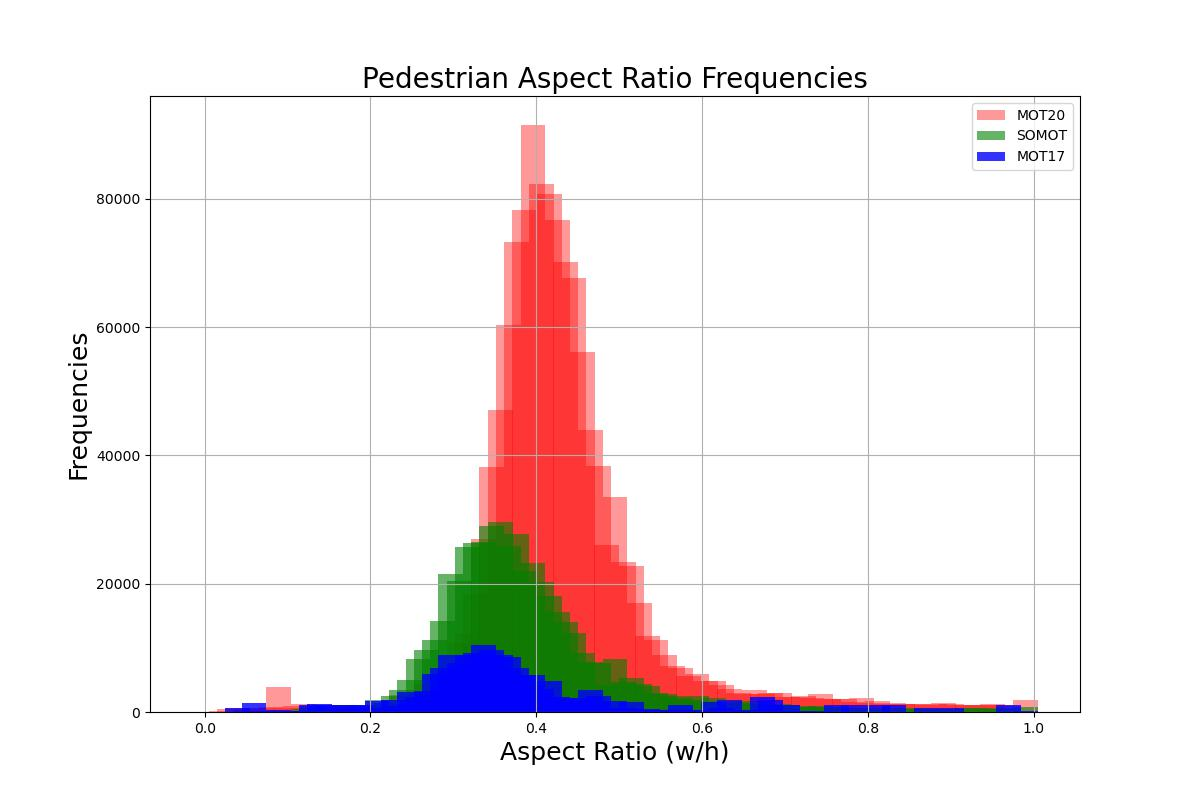
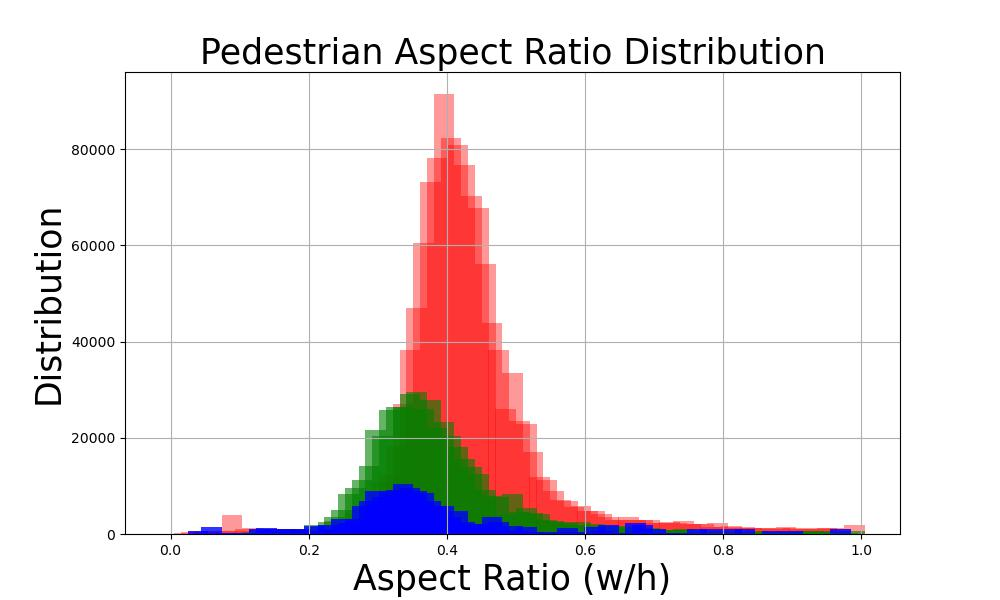
yolov5 detection statistics calculated

diff --git a/datasetStatistics.py b/datasetStatistics.py
@@ -79,51 +79,50 @@ for ro in root:
         else:
             continue
 
-fig = plt.subplots(figsize=(12, 8))
+
+
+fig = plt.subplots(figsize=(10, 6))
 plt.bar(histAR_x[:15000], histAR[2, :15000], color='r', width=0.03, label='MOT20', alpha=0.4)
-plt.bar(histAR_x[:15000], histAR[0, :15000], color='g', width=0.03, label='SOMOT', alpha=0.6)
+plt.bar(histAR_x[:15000], histAR[0, :15000], color='g', width=0.03, label='SOMOT22', alpha=0.6)
 plt.bar(histAR_x[:15000], histAR[1, :15000], color='b', width=0.03, label='MOT17', alpha=0.8)
 
-plt.ylabel('Frequencies', size=18)
-plt.xlabel('Aspect Ratio (w/h)', size=18)
-plt.title('Pedestrian Aspect Ratio Frequencies', size=20)
-plt.legend()
+plt.ylabel('Distribution', size=25)
+plt.xlabel('Aspect Ratio (w/h)', size=25)
+plt.title('Pedestrian Aspect Ratio Distribution', size=25)
 plt.grid()
-plt.savefig('histOfAR_.jpg')
+plt.savefig('histOfAR.jpg')
 plt.show()
 plt.close()
 
 
-fig = plt.subplots(figsize=(12, 8))
+
+fig = plt.subplots(figsize=(10, 6))
 plt.bar(histH_x[:400], histHeight[2, :400], color='r', width=8, label='MOT20', alpha=0.4)
-plt.bar(histH_x[:400], histHeight[0, :400], color='g', width=8, label='SOMOT', alpha=0.6)
+plt.bar(histH_x[:400], histHeight[0, :400], color='g', width=8, label='SOMPT22', alpha=0.6)
 plt.bar(histH_x[:400], histHeight[1, :400], color='b', width=8, label='MOT17', alpha=0.8)
 
-
-
-plt.ylabel('Frequencies', size=18)
-plt.xlabel('Object Height (px)', size=18)
-plt.title('Pedestrian Size Frequencies', size=20)
-plt.legend()
+plt.ylabel('Distribution', size=25)
+plt.xlabel('Object Height (px)', size=25)
+plt.title('Pedestrian Size Distribution', size=25)
+plt.legend(fontsize=25)
 plt.grid()
-plt.savefig('histOfH_.jpg')
+plt.savefig('histOfH.jpg')
 plt.show()
 plt.close()
 
 
-fig = plt.subplots(figsize=(12, 8))
+
+
+fig = plt.subplots(figsize=(10, 6))
 plt.bar(histD_x[:250], histDensity[2, :250], color='r', width=1.3, label='MOT20', alpha=0.4)
-plt.bar(histD_x[:250], histDensity[0, :250], color='g', width=1.3, label='SOMOT', alpha=0.6)
+plt.bar(histD_x[:250], histDensity[0, :250], color='g', width=1.3, label='SOMOT22', alpha=0.6)
 plt.bar(histD_x[:250], histDensity[1, :250], color='b', width=1.3, label='MOT17', alpha=0.8)
 
-
-
-plt.ylabel('Frequencies', size=18)
-plt.xlabel('Object per Frame', size=18)
-plt.title('Pedestrian Densities', size=20)
-plt.legend()
+plt.ylabel('Distribution', size=25)
+plt.xlabel('Object per Frame', size=25)
+plt.title('Pedestrian Density Distribution', size=25)
 plt.grid()
-plt.savefig('histOfD_.jpg')
+plt.savefig('histOfD.jpg')
 plt.show()
 plt.close()
 

diff --git a/detectionStatistics.py b/detectionStatistics.py
@@ -1,0 +1,57 @@
+import cv2
+import time
+import os
+import sys
+from datetime import datetime
+import shutil
+import numpy as np
+from operator import itemgetter
+import matplotlib.pyplot as plt
+
+
+somot = '/home/fatih/phd/yolov5/runs/detect/dets'  # train test
+result = '/home/fatih/phd/yolov5/runs/detect/stats.txt'
+
+wr = open(result, 'a')
+
+vidHeight = 1080
+
+seqs = os.listdir(somot)
+for seq in seqs:
+    if seq == 'cam2 2021-02-23,04 00 40' or seq == 'cam2 2021-02-23,18 00 04':
+        vidHeight = 720
+    else:
+        vidHeight = 1080
+    txt_list = os.path.join(somot, seq)
+    txts = os.listdir(txt_list)
+    wr.write('Seq: ' + seq + ' ')
+    wr.write('fr: ' + str(len(txts)) + ' ')
+    nDet = 0
+    min_height = vidHeight
+    max_height = 0
+    for txt in txts:
+        with open(os.path.join(somot, seq, txt)) as fp:
+            Lines = fp.readlines()
+            nDet += len(Lines)
+            for ix, line in enumerate(Lines):
+                line = line.split(' ')
+                height = line[4]
+                height = float(height)
+                height *= vidHeight
+                if height < min_height:
+                    min_height = height
+                if height > max_height:
+                    max_height = height
+    wr.write('nDet: ' + str(nDet) + ' ')
+    wr.write('nDet/fr: ' + str(nDet/len(txts)) + ' ')
+    wr.write('min height : ' + str(min_height) + ' ')
+    wr.write('max height : ' + str(max_height) + '\n')
+
+
+
+
+
+
+
+
+

diff --git a/datasetVisibility.py b/datasetVisibility.py
@@ -113,17 +113,16 @@ for ro in root:
         else:
             continue
 
-fig = plt.subplots(figsize=(12, 8))
+fig = plt.subplots(figsize=(10, 6))
 plt.bar(histOcc_x[:], histOcc[2, :], color='r', width=1, label='MOT20', alpha=0.4)
 plt.bar(histOcc_x[:], histOcc[0, :], color='g', width=1, label='SOMOT', alpha=0.8)
 plt.bar(histOcc_x[:], histOcc[1, :], color='b', width=1, label='MOT17', alpha=0.6)
 
 
-plt.ylabel('Frequencies', size=18)
-plt.xlabel('Occlusion Percent (%)', size=18)
-plt.title('Pedestrian Occlusion Frequencies', size=20)
-plt.legend()
+plt.ylabel('Distribution', size=25)
+plt.xlabel('Occlusion Percent (%)', size=25)
+plt.title('Pedestrian Occlusion Distribution', size=25)
 plt.grid()
-plt.savefig('histOfOcc_.jpg')
+plt.savefig('histOfOcc.jpg')
 plt.show()
 plt.close()
